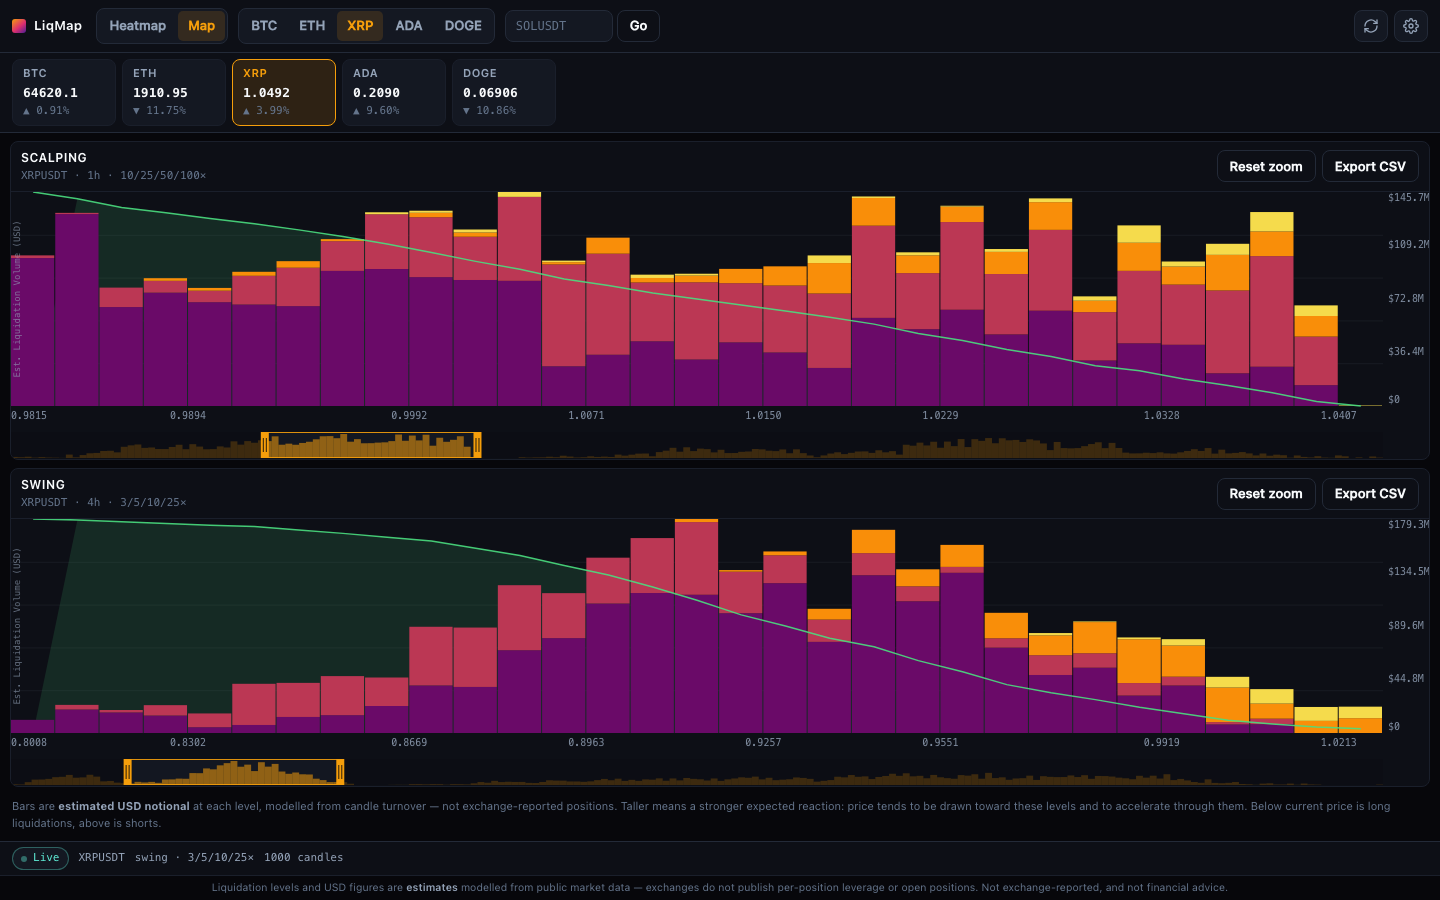
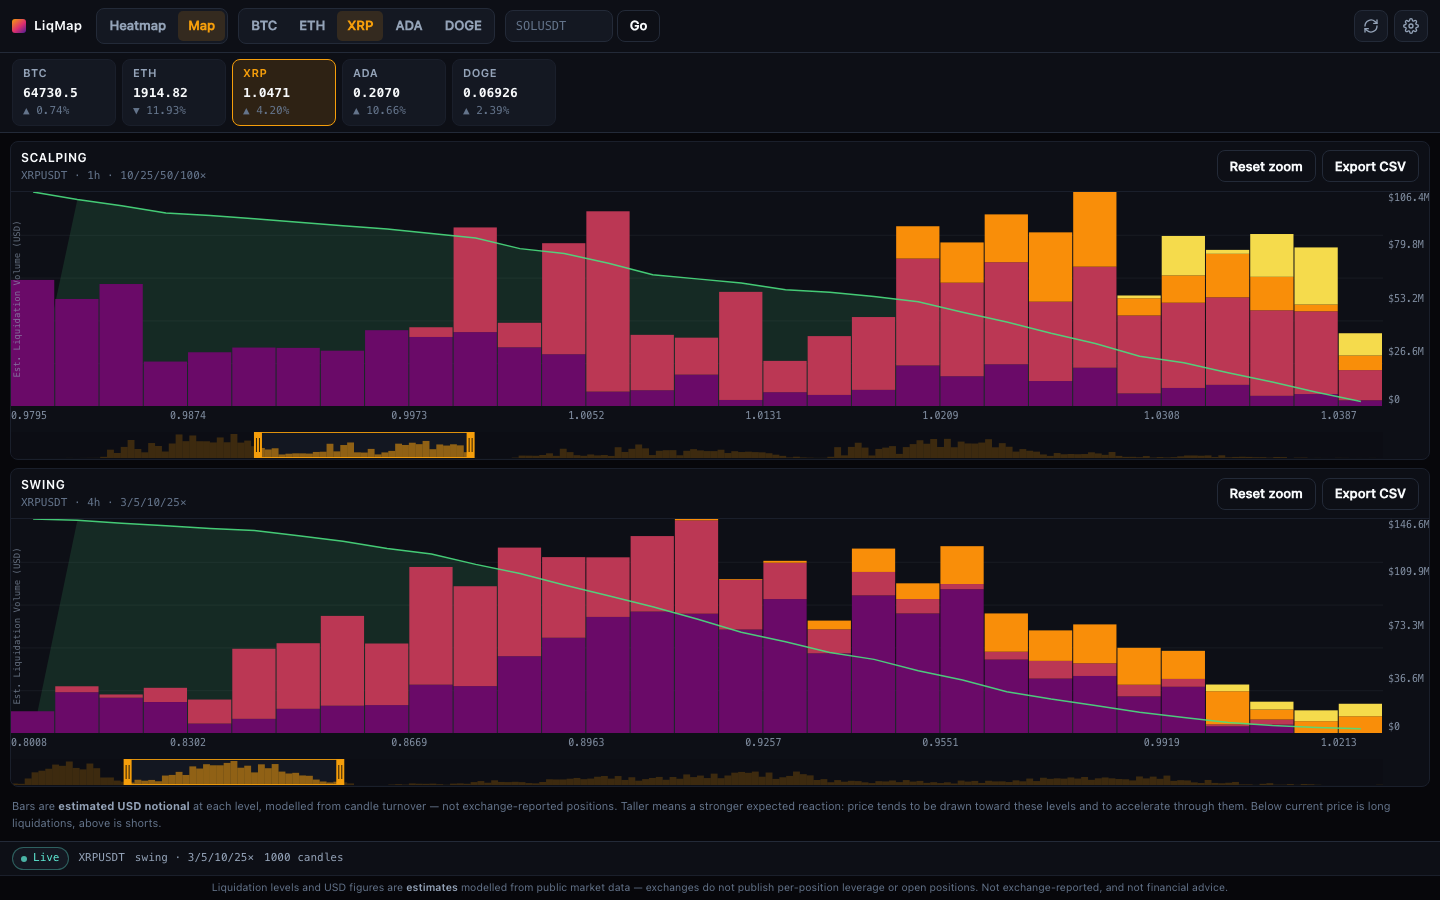
docs: level decay, per-side intensity scale, calendar time axis
Adds the live verification tooling used to check them: verify-ghosts.mjs frames
the whole grid from the published view domain and counts top-class pixels above
2x price, verify-live-decay.mjs checks the axis across a pan and a real backfill
prepend.

diff --git a/README.md b/README.md
@@ -136,15 +136,26 @@ src/
 
 For each closed candle, oldest first:
 
-1. **Clear** every bucket inside `[low, high]`. Price traded there, so those positions are gone.
-2. **Seed** the levels the candle implies, in USD. Three entry anchors — close `0.45`,
+1. **Decay** every level by its tier's per-candle factor `2^-(candleDays / halfLife)`.
+   Clearing alone treats a level price never revisited as a position someone is still
+   holding, but most positions are closed, stopped or rolled long before they are
+   liquidated — so unswept levels accumulate into ghosts. Half-lives track how long each
+   leverage can realistically be *held*: swing `3x 60d · 5x 30d · 10x 14d · 25x 5d`,
+   scalping `10x 5d · 25x 2d · 50x 1d · 100x 12h`. Decay runs inside the same walk, so a
+   2024 level visibly fades column by column instead of the chart being re-scaled at the
+   end, and values under 1e-6 of the column peak are floored to zero. Toggle in Settings.
+2. **Clear** every bucket inside `[low, high]`. Price traded there, so those positions are gone.
+3. **Seed** the levels the candle implies, in USD. Three entry anchors — close `0.45`,
    high `0.275`, low `0.275` — each carrying
    `turnover × clamp(1 + 8·max(ΔOI/OI, 0), 1, 3)`
    split across four tiers as `[0.35, 0.30, 0.20, 0.15]`, then **halved between the long and
    short side** so a candle's dollars are counted once rather than twice.
    Long liquidation at `entry·(1 − 1/L)`, short at `entry·(1 + 1/L)`.
-   With no clearing, the grid sums to exactly `Σ turnover × oiFactor`.
-3. **Snapshot** the live vector into column `t`.
+   With no clearing or decay, the grid sums to exactly `Σ turnover × oiFactor`.
+4. **Snapshot** the live vector into column `t`.
+
+Decay comes before seeding so a candle's own entries land at full weight — they were opened
+during that candle and have had no time to age.
 
 One `Float32Array` per tier (`nCols × 1100`), so tier toggles never trigger a rebuild.
 
@@ -152,11 +163,28 @@ Rendering quantises intensity into **five ordinal classes** rather than a smooth
 continuous gradient mapped a wide middle band onto near-identical yellows, so large regions
 read as one uniform blob. Class breaks are the p50/p75/p90/p97 percentiles of the non-zero
 values currently on screen, so only ~3% of painted area can be top class, and alpha rises
-per class. Two ramps ship: **Inferno (classes)** by default and a **Classic**
+per class. Breaks are drawn **per side of the book**: one shared ladder ranks every visible
+cell together, and whichever side price sits near occupies a far narrower band of buckets,
+so its levels are denser per bucket and take the top classes while the other side collapses
+into the two faintest. Measured on XRPUSDT 1d, the above-price half held $28.16B against the
+below-price half's $10.75B and still rendered with 3.9% hot cells against 49.2% — the scale
+was hiding 2.6x more mass than it showed. Ranking each side against its own distribution
+costs cross-side comparability, which the tooltip and the side panel still give exactly, and
+buys back the structure of whichever half is quieter. The legend carries a row per side. Two ramps ship: **Inferno (classes)** by default and a **Classic**
 blue→cyan→green→yellow→red where red is heaviest; the choice lives in Settings and drives
 the raster, the side panel and the Map together. A legend labels each class with its est.
 USD floor. The raster is drawn at native bucket resolution and upscaled with smoothing off,
 so buckets stay crisp.
+
+### Time axis
+
+Ticks are generated from the **time domain**, not by stepping column indices. A step is
+chosen from a calendar ladder (minute → year) to suit the zoom, and boundaries align to local
+calendar units, so labels land on real dates: year starts read `2026`, month starts `Mar`,
+and day numbers or `HH:mm` in between. Labels are a pure function of the tick's own date —
+never of its neighbours — which is what keeps a tick glued to its date while the chart pans
+and through a history prepend that shifts every column index underneath it. Index-modulo
+stepping, which this replaces, landed on arbitrary dates and could print the same label twice.
 
 ### Price precision
 
